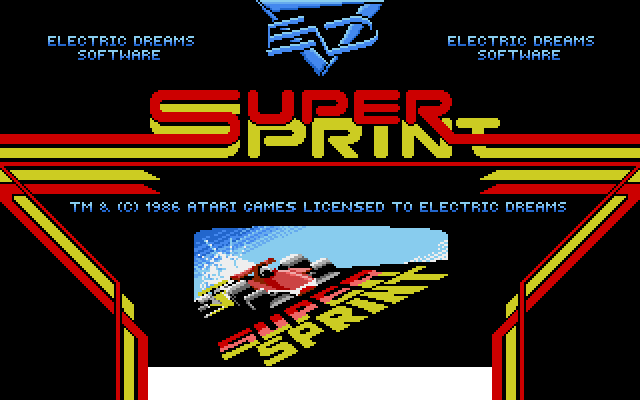
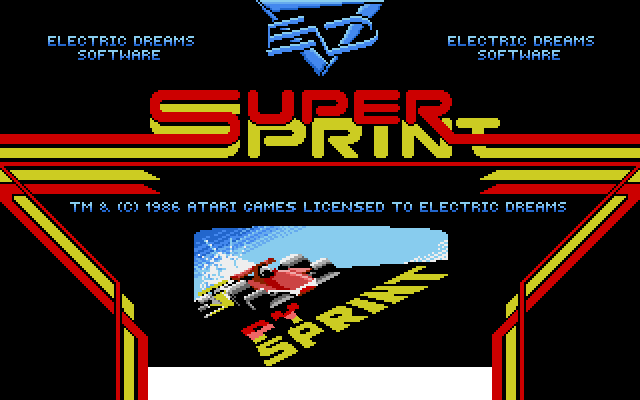
Updated Loading Screen & added Engine idle animation at start race screen

Changed region(s): [[0.3438, 0.66, 0.625, 0.9]]

diff --git a/PySprint.py b/PySprint.py
@@ -8,7 +8,7 @@ pygame.init()
 display_width = 640
 display_height = 400
 flags = 0
-race_laps = 2
+race_laps = 4
 
 #Scale screen
 #flags = pygame.SCALED
@@ -41,7 +41,6 @@ yellow_color = (238, 238, 102)
 
 
 
-loading_screen = pygame.image.load('Assets/SuperSprintLoadingScreen.png').convert_alpha()
 loading_screen_foreground = pygame.image.load('Assets/SuperSprintLoadingScreenForeground.png').convert_alpha()
 credits_screen = pygame.image.load('Assets/SuperSprintCreditsScreen.png').convert_alpha()
 splash_screen = pygame.image.load('Assets/SuperSprintSplashScreen.png').convert_alpha()
@@ -49,6 +48,14 @@ start_race_screen = pygame.image.load('Assets/SuperSprintStartRaceScreen.png').c
 high_score_screen = pygame.image.load('Assets/SuperSprintHighScores.png').convert_alpha()
 lap_records_screen = pygame.image.load('Assets/SuperSprintLapRecords.png').convert_alpha()
 race_podium_screen = pygame.image.load('Assets/SuperSprintRacePodium.png').convert_alpha()
+
+
+engine_idle = {
+    0:pygame.image.load('Assets/EngineIdle0.png').convert_alpha(),
+    1:pygame.image.load('Assets/EngineIdle1.png').convert_alpha(),
+    2:pygame.image.load('Assets/EngineIdle2.png').convert_alpha(),
+}
+
 
 attract_mode_display_duration = 5000
 
@@ -346,8 +353,8 @@ class Car:
     passed_finish_line_wrong_way = False
     lap_count = 0
     current_lap_start = 0
-    #lap_times = [0,0,0,0]
-    lap_times = [0,0]
+    lap_times = [0,0,0,0]
+    #lap_times = [0,0]
 
     best_lap = 0
     average_Lap = 0
@@ -856,7 +863,7 @@ def screen_fadein(screen):
         frame -= 1
 
 def display_loading_screen(loop):
-    screen_fadein(loading_screen)
+    screen_fadein(loading_screen_foreground)
     screen_exit = False
     accelerate_pressed = False
     scroll_message = "SUPER SPRINT REMADE WITH PYGAME BY SALEM_OK. CREATED FOR THE MIGHTY ATARI ST BY STATE OF THE ART. PROGRAMMING: NALIN SHARMA  MARTIN GREEN  JON STEELE. GRAPHICS: CHRIS GIBBS. SOUND: MARK TISDALE. A SOFTWARE STUDIOS PRODUCTION..."
@@ -1020,24 +1027,35 @@ def print_start_race_text(seconds):
 def display_start_race_screen():
     seconds = 5
     screen_exit = False
+    engine_idle_counter = 0
     screen_fadein(start_race_screen)
     print_start_race_text(seconds)
+    game_display.blit(engine_idle[engine_idle_counter], (73, 146))
+    game_display.blit(engine_idle[engine_idle_counter], (391, 146))
+    game_display.blit(engine_idle[engine_idle_counter], (233, 284))
     pygame.display.update()
     countdown = pygame.time.get_ticks()
     while not screen_exit:
+        game_display.blit(start_race_screen, (0, 0))
+        engine_idle_counter +=1
+        if engine_idle_counter > 2:
+            engine_idle_counter = 0
         time = pygame.time.get_ticks()
         if time - countdown >= 1000:
             seconds -= 1
             countdown = time
-            game_display.blit(start_race_screen, (0, 0))
-            print_start_race_text(seconds)
-            pygame.display.update()
+        print_start_race_text(seconds)
+        game_display.blit(engine_idle[engine_idle_counter], (72, 146))
+        game_display.blit(engine_idle[engine_idle_counter], (390, 146))
+        game_display.blit(engine_idle[engine_idle_counter], (232, 284))
+        pygame.display.update()
         if seconds == 0:
             screen_exit = True
         for event in pygame.event.get():
             if event.type == pygame.KEYDOWN:
                 if event.key == pygame.K_SPACE:
                     screen_exit = True
+        clock.tick(15)
     screen_fadeout()
 
 def display_race_podium_screen(firstcar):
